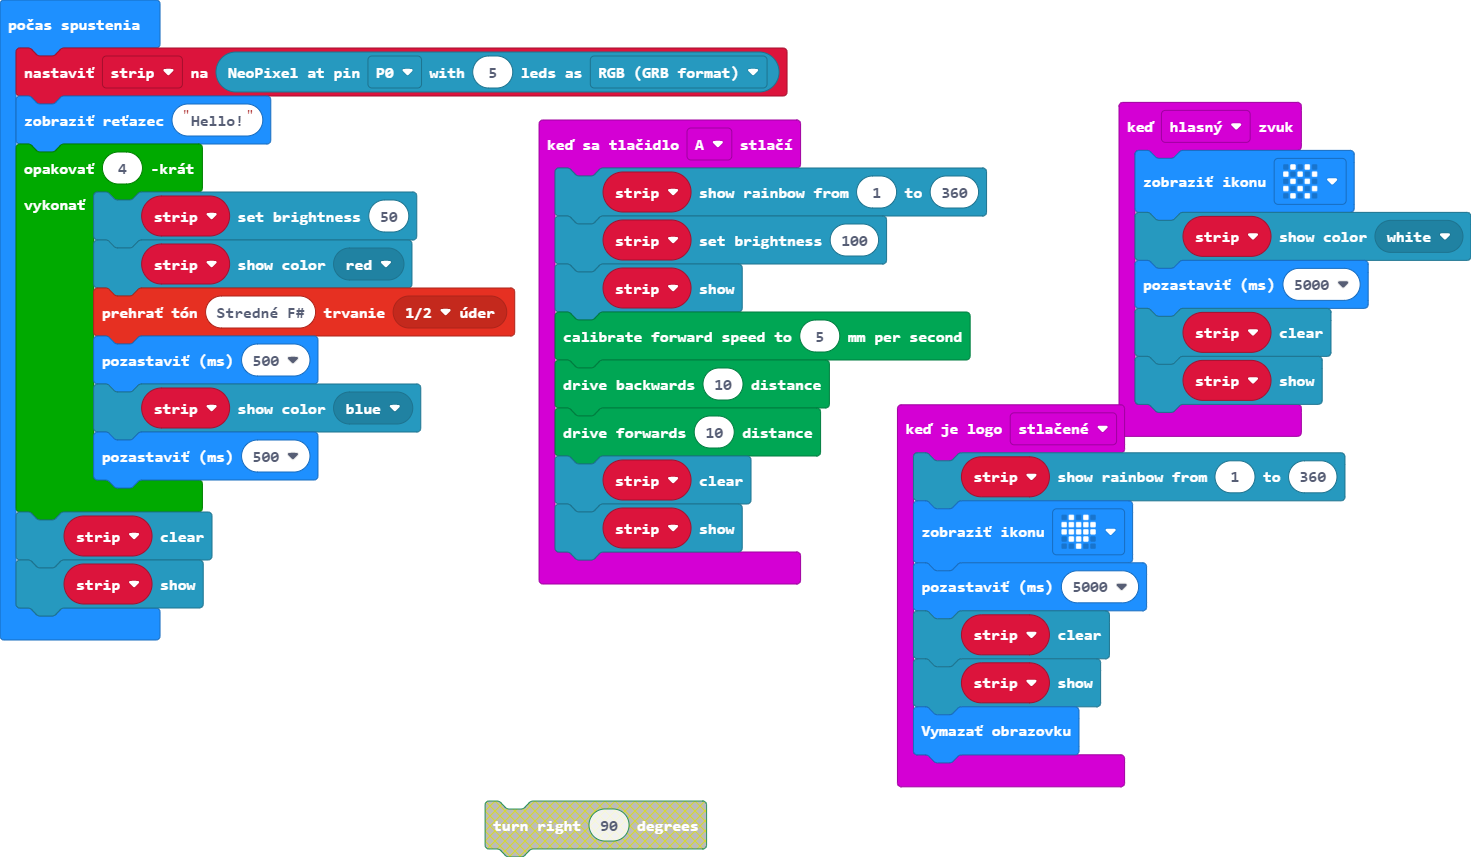
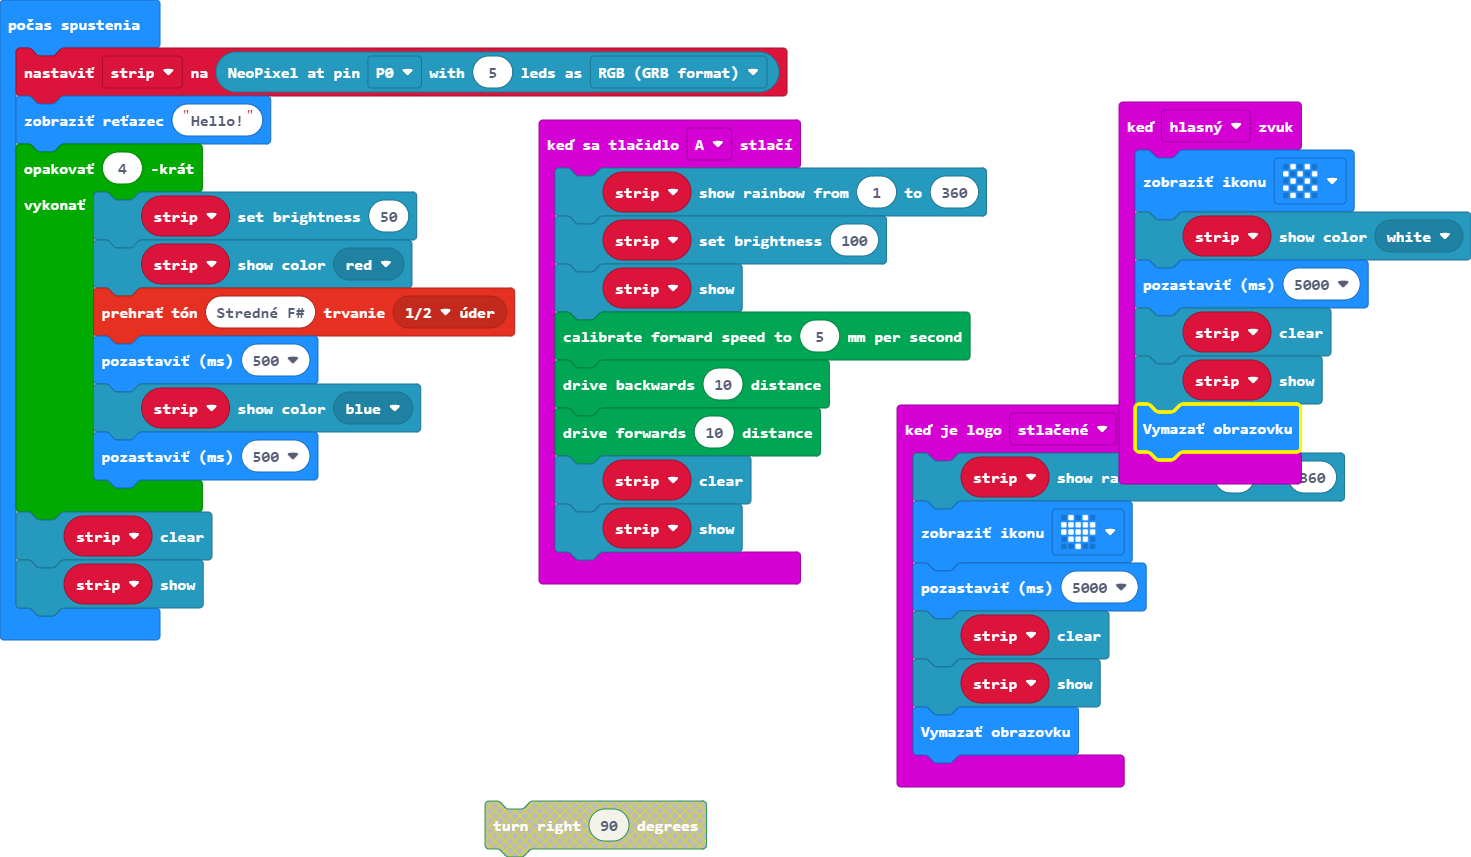
Aktualizovať main.blocks, main.ts

diff --git a/main.ts b/main.ts
@@ -14,6 +14,7 @@ input.onSound(DetectedSound.Loud, function () {
     basic.pause(5000)
     strip.clear()
     strip.show()
+    basic.clearScreen()
 })
 input.onLogoEvent(TouchButtonEvent.Pressed, function () {
     strip.showRainbow(1, 360)
